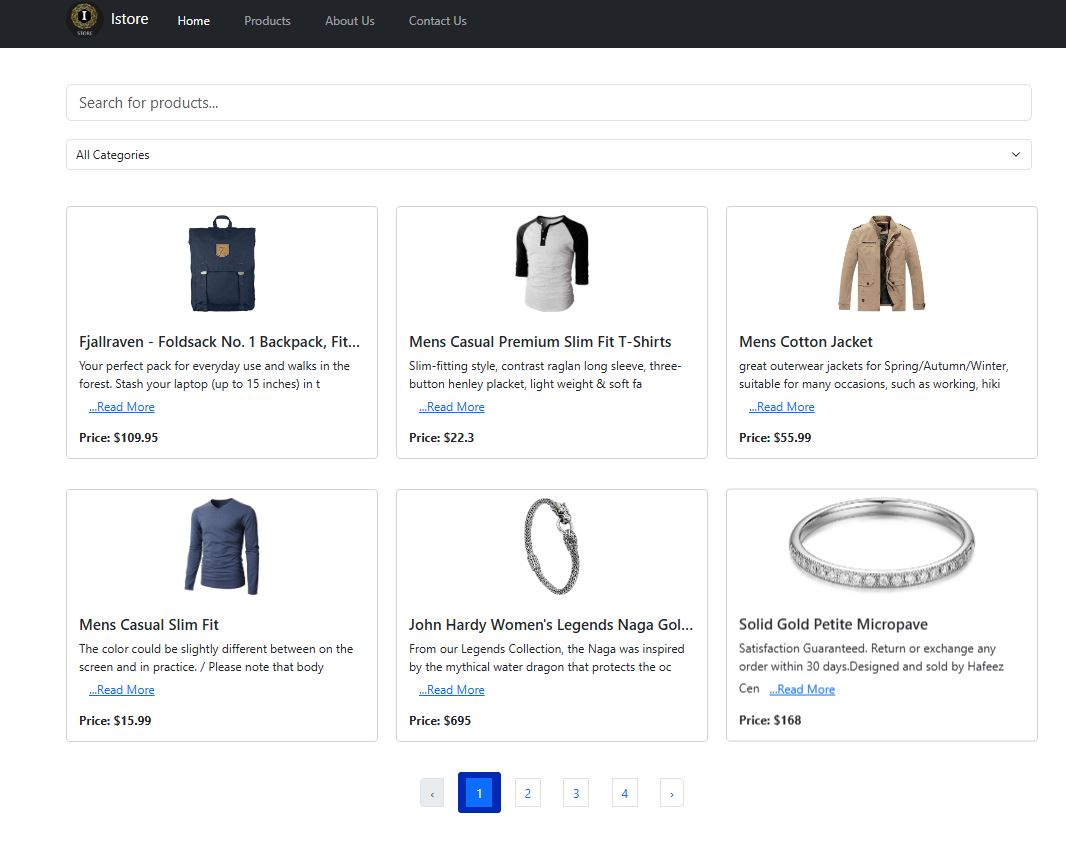
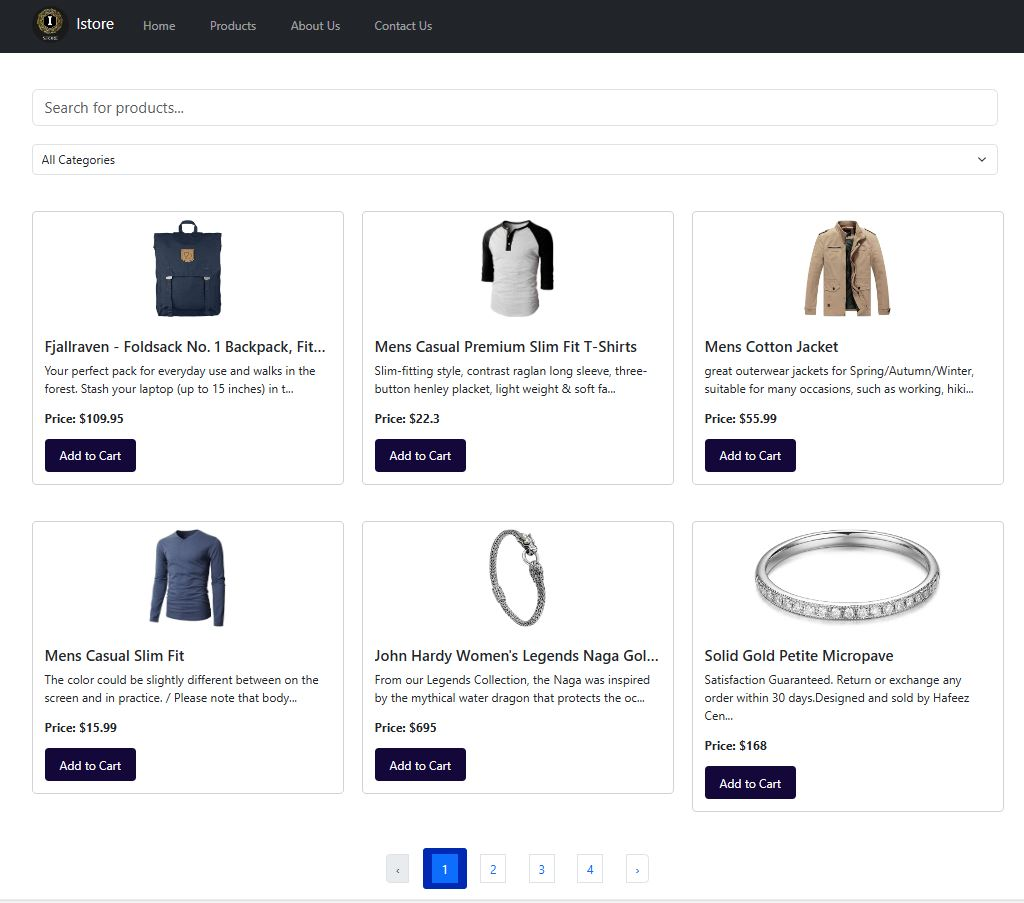
Added 'Add to Cart' functionality to the product cards

diff --git a/src/Components/ProductCard.jsx b/src/Components/ProductCard.jsx
@@ -1,40 +1,21 @@
-import React, { useState } from 'react';
-import { Card, Button } from 'react-bootstrap';
-import '../Styles/ProductCard.css'; 
+import React from 'react';
+import { Card } from 'react-bootstrap';
+import CustomButton from './Button'; 
 
-const ProductCard = ({ product }) => {
-  const [readMore, setReadMore] = useState(false);
-
-
-  const descriptionPreview = product.description.slice(0, 100);
-
-  const toggleReadMore = () => setReadMore(!readMore);
-
+const ProductCard = ({ product, onAddToCart }) => {
   return (
-    <Card className="product-card">
+    <Card style={{ width: '100%' }} className="mb-4">
       <Card.Img 
         variant="top" 
         src={product.image} 
         alt={product.title} 
-        className="product-card-img" 
+        style={{ height: '150px', objectFit: 'contain', padding: '10px' }} 
       />
       <Card.Body>
-        <Card.Title className="product-card-title">{product.title}</Card.Title>
-        <Card.Text className="product-card-text">
-          {readMore ? product.description : descriptionPreview}
-          {product.description.length > 100 && (
-            <Button 
-              variant="link" 
-              onClick={toggleReadMore} 
-              className="product-card-readmore-btn"
-            >
-              {readMore ? ' Read Less' : '...Read More'}
-            </Button>
-          )}
-        </Card.Text>
-        <Card.Text className="product-card-price">
-          Price: ${product.price}
-        </Card.Text>
+        <Card.Title className="text-truncate">{product.title}</Card.Title>
+        <Card.Text>{product.description.slice(0, 100)}...</Card.Text>
+        <Card.Text><strong>Price: ${product.price}</strong></Card.Text>
+        <CustomButton text="Add to Cart" onClick={() => onAddToCart(product)} />
       </Card.Body>
     </Card>
   );

diff --git a/src/Pages/AllProducts.jsx b/src/Pages/AllProducts.jsx
@@ -10,6 +10,7 @@ const AllProducts = () => {
   const [products, setProducts] = useState([]); 
   const [filteredProducts, setFilteredProducts] = useState([]); 
   const [searchResults, setSearchResults] = useState([]);
+  const [cart, setCart] = useState([]);
   const [currentPage, setCurrentPage] = useState(1);
   const [loading, setLoading] = useState(true); 
   const [searching, setSearching] = useState(false); 
@@ -68,6 +69,11 @@ const AllProducts = () => {
     setCurrentPage(1); 
   };
 
+  const handleAddToCart = (product) => {
+    setCart([...cart, product]); 
+    alert(`${product.title} has been added to the cart!`);
+  };
+
   const indexOfLastProduct = currentPage * productsPerPage;
   const indexOfFirstProduct = indexOfLastProduct - productsPerPage;
   const currentProducts = searchResults.slice(indexOfFirstProduct, indexOfLastProduct);
@@ -90,7 +96,10 @@ const AllProducts = () => {
             {currentProducts.length > 0 ? (
               currentProducts.map((product) => (
                 <Col key={product.id} xs={12} sm={6} lg={4}>
-                  <ProductCard product={product} />
+                  <ProductCard 
+                    product={product} 
+                    onAddToCart={() => handleAddToCart(product)}
+                  />
                 </Col>
               ))
             ) : (

diff --git a/src/Styles/Button.css b/src/Styles/Button.css
@@ -1,0 +1,14 @@
+.custom-button {
+  background-color: #14073a;
+  color: #fff;
+  border: none;
+  padding: 10px 20px;
+  font-size: 16px;
+  border-radius: 5px;
+  cursor: pointer;
+  transition: background-color 0.3s ease;
+}
+
+.custom-button:hover {
+  background-color: #82b3ec;
+}

diff --git a/src/Components/Button.jsx b/src/Components/Button.jsx
@@ -1,0 +1,12 @@
+import React from 'react';
+import '../Styles/Button.css'; 
+
+const CustomButton = ({ text, onClick }) => {
+  return (
+    <button className="custom-button" onClick={onClick}>
+      {text}
+    </button>
+  );
+};
+
+export default CustomButton;
